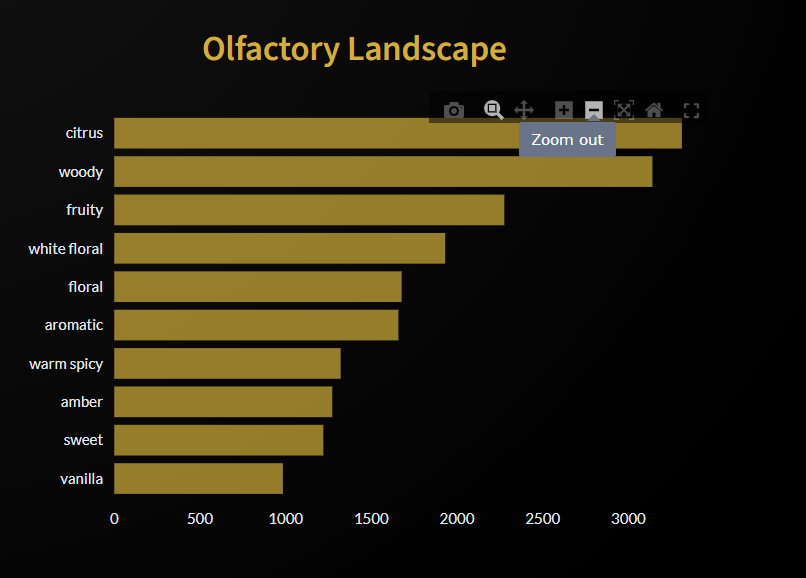
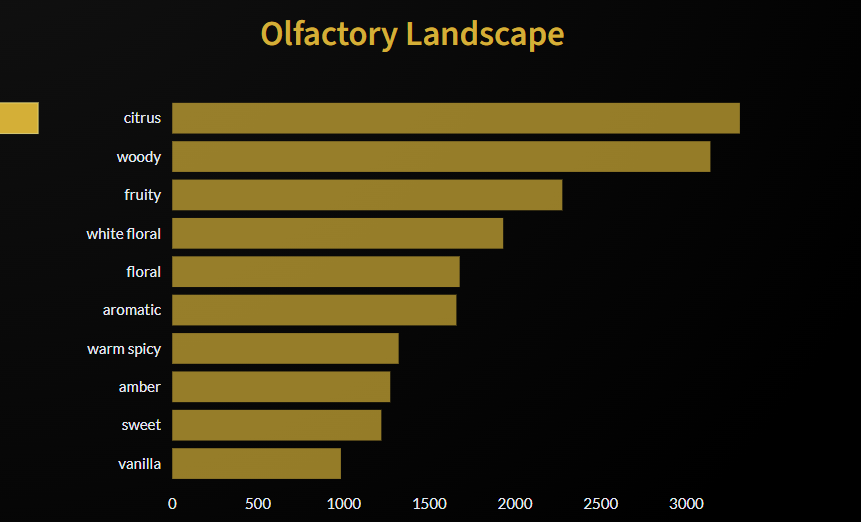
Docs: Updated README with professional footer and new chart

diff --git a/README.MD b/README.MD
@@ -1,59 +1,63 @@
-# ScentSational: AI Perfume Concierge
+<div align="center">
 
-**A "Dark Luxury" AI-powered recommendation engine helping users discover their signature scent.**
+# ✨ ScentSational | Atelier
+### The Dark Luxury Fragrance Intelligence Platform
 
-> "Scent is the brother of breath."
+![Python](https://img.shields.io/badge/Python-3.9%2B-FFD700?style=for-the-badge&logo=python&logoColor=black)
+![Streamlit](https://img.shields.io/badge/Streamlit-FF4B4B?style=for-the-badge&logo=streamlit&logoColor=white)
+![Plotly](https://img.shields.io/badge/Plotly-3F4F75?style=for-the-badge&logo=plotly&logoColor=white)
+![License](https://img.shields.io/badge/License-MIT-green?style=for-the-badge)
 
-### 🎯 Project Goal
-To eliminate the overwhelming complexity of choosing a perfume by using Artificial Intelligence. Unlike traditional filters, ScentSational uses Natural Language Processing (NLP) and image embedding logic to understand the *vibe* of a fragrance, acting as a personal digital concierge.
+<p align="center">
+  <br>
+  <i>"Scent is the brother of breath."</i>
+  <br>
+</p>
 
----
-
-## 📊 Data Insights (Exploratory Data Analysis)
-
-Before training the AI model, we analyzed the underlying structure of the `perfumes_dataset.csv`.
-
-### 1. The Olfactory Landscape
-An analysis of the most dominant main accords present in the dataset. Citrus, Woody, and Fruity notes dominate the landscape.
-
-![Olfactory Landscape Chart](assets/olfactory_landscape.png)
-
-### 2. Top Designers by Volume
-A view of the fragrance houses with the highest number of entries in our database.
-
-![Top Designers Chart](assets/top_designers.png)
+</div>
 
 ---
 
-## 📚 Data Source
-The application is powered by a curated dataset (`perfumes_dataset.csv`) specifically processed for this project.
-* **Source:** Consolidated data aggregating olfactory notes, popularity ratings, and visual assets (images) from public fragrance databases.
-* **Preprocessing:** The raw data underwent rigorous cleaning and feature engineering to make it suitable for NLP vectorization (SBERT).
+## 💎 Project Overview
+
+**ScentSational** is not just a database; it is a digital concierge designed for the modern connoisseur. Moving away from cluttered interfaces, this project implements a **"Dark Luxury" design system** to provide a seamless, high-end user experience for discovering fragrances.
+
+The platform solves the "paradox of choice" in the perfume market by aggregating data, standardizing olfactory notes, and offering curated discovery modes in a mobile-responsive environment.
 
 ---
 
-## 🧠 The AI Engine (How It Works)
+## 🚀 Key Features
 
-The recommendation system utilizes a **Hybrid Similarity Approach**, combining textual analysis with visual cues.
-
-1.  **Vectorization**:
-    * **SBERT & TF-IDF**: We utilize Sentence-BERT to generate dense vector embeddings for perfume descriptions and accords.
-    * **Image Embeddings**: Visual features of perfume bottles are mapped into the same vector space.
-2.  **Cosine Similarity**: The core logic calculates the angular distance between the user's input "hero" perfume and the rest of the database.
-3.  **Optimization**: Heavy matrix calculations are pre-computed and stored in `hybrid_similarity.npy` for real-time performance.
+* **📱 Mobile-First Design:** A fully responsive interface where layouts (columns, images, typography) adapt fluidly between Desktop and Mobile devices.
+* **🔍 Smart Discovery Engine:** Advanced filtering logic that allows users to search by Brand, Name, or Olfactory profile using fuzzy matching.
+* **📊 Market Intelligence:** Interactive dashboards powered by Plotly to visualize trends in the fragrance industry.
+* **🛡 Robust Data Pipeline:** Custom CSV parsing engine capable of handling various delimiters and encoding standards automatically.
 
 ---
 
-## 🛠 Tech Stack
+## 📊 Analytics & Insights
 
-* **Language**: Python 3.9+
-* **Framework**: Streamlit (with Custom CSS for "Dark Luxury" UI)
-* **AI & Machine Learning**:
-    * Sentence-Transformers (SBERT)
-    * Scikit-learn (Cosine Similarity, TF-IDF)
-    * NumPy (Matrix operations)
-* **Data Manipulation**: Pandas
-* **Visualization**: Plotly (used for EDA charts shown above)
+Before deployment, the underlying dataset (`scentsational_data.csv`) underwent rigorous Exploratory Data Analysis (EDA).
+
+### The Olfactory Landscape
+We mapped the frequency of primary accords across the database. As shown below, the market is currently dominated by **Citrus, Woody, and Fruity** profiles, indicating a consumer shift towards fresh and grounded scents.
+
+<div align="center">
+  <img src="assets/olfactory_landscape.png" alt="Olfactory Landscape Chart" width="800">
+  <p><i>Figure 1: Distribution of dominant olfactory accords in the curated dataset.</i></p>
+</div>
+
+---
+
+## 🛠 Technology Stack
+
+| Component | Technology | Description |
+| :--- | :--- | :--- |
+| **Core Logic** | `Python 3.9+` | Backend processing and logic control. |
+| **Frontend** | `Streamlit` | Web framework with custom CSS injection for "Dark Mode". |
+| **Data Eng** | `Pandas` | Data cleaning, regex standardization, and manipulation. |
+| **Viz** | `Plotly` | Interactive charts without static modebars. |
+| **Deployment** | `Streamlit Cloud` | CI/CD pipeline integrated with GitHub. |
 
 ---
 
@@ -61,11 +65,52 @@ The recommendation system utilizes a **Hybrid Similarity Approach**, combining t
 
 ```text
 ScentSational/
-├── assets/                  # Images for README and UI
-│   ├── olfactory_landscape.png
-│   └── top_designers.png
-├── app.py                   # Main Streamlit application logic
-├── perfumes_dataset.csv     # Primary dataset (Source of Truth)
-├── hybrid_similarity.npy    # Pre-calculated AI model weights
-├── requirements.txt         # Python dependencies
-└── README.md                # Project documentation
+├── assets/                  # Static assets (Charts, Images)
+│   └── olfactory_landscape.png
+├── app.py                   # Main Application (Atelier Dashboard)
+├── scentsational_data.csv   # Processed Dataset (Source of Truth)
+├── requirements.txt         # Dependency Management
+└── README.md                # Documentation
+
+
+
+---
+
+## ⚖ Data Source & Licensing
+
+### 📚 Data Origin
+The application is powered by a curated dataset (`scentsational_data.csv`), rigorously processed for this portfolio.
+* **Aggregated Sources:** Consolidated olfactory notes, popularity ratings, and visual assets from public fragrance databases.
+* **Preprocessing:** Raw data underwent regex standardization to ensure consistency in brand names and accords.
+
+### 📜 License
+This project is released under the **MIT License**.
+> *Permission is hereby granted, free of charge, to any person obtaining a copy of this software...*
+
+You are free to use, modify, and distribute this software, provided that the copyright notice is preserved. See the [LICENSE](LICENSE) file for details.
+
+---
+
+<div align="center">
+
+## 👩💻 Author
+
+**Magdalena Romaniecka**
+<br>
+*Data Engineer & Web Analytics Specialist*
+
+<br>
+
+> *"Building bridges between raw data and luxury user experiences."*
+
+<br>
+
+[![GitHub](https://img.shields.io/badge/GitHub-Profile-181717?style=flat&logo=github&logoColor=white)](https://github.com/MagdalenaRomaniecka)
+[![LinkedIn](https://img.shields.io/badge/LinkedIn-Connect-0A66C2?style=flat&logo=linkedin&logoColor=white)](https://www.linkedin.com/in/magdalena-romaniecka/)
+
+<br>
+<hr width="50%">
+
+Copyright © 2026 Magdalena Romaniecka. All Rights Reserved.
+
+</div>
